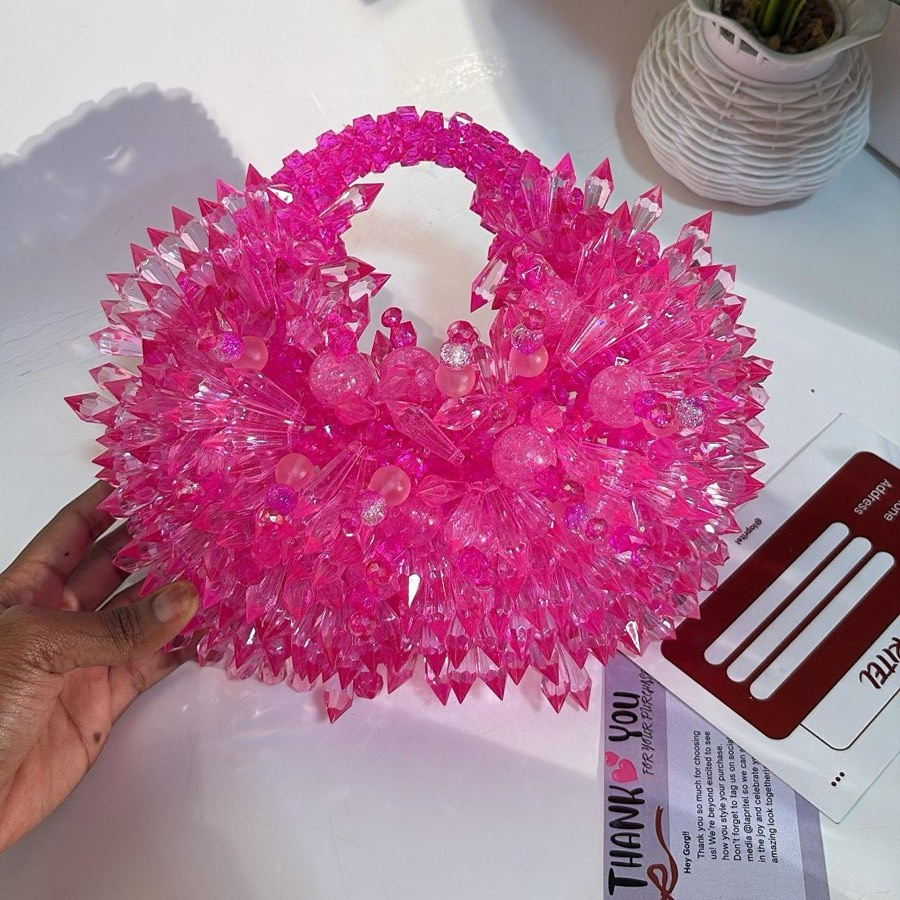
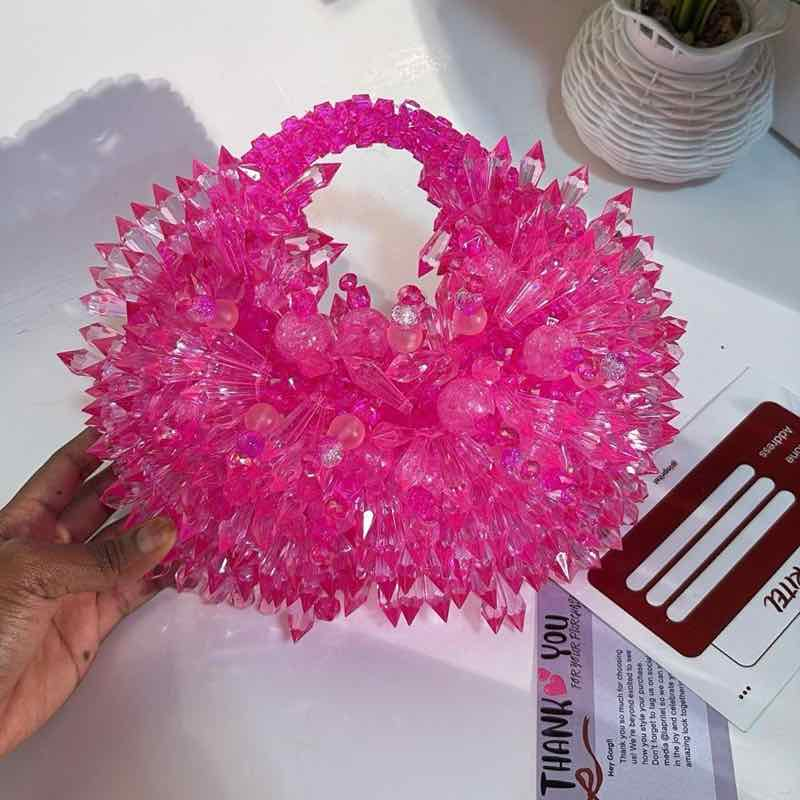
Optimize product photos — ~75% smaller, same visible quality
The full-size product photos (both the ones bundled into the client
and the copies uploaded to Supabase Storage for the live product API)
were never actually compressed for web -- 900x900 JPEGs saved near
losslessly, 185-255KB each. The Shop grid alone loads up to 10 of
these at once (~2MB), which is what was showing up as slow/laggy
image loading on the deployed site.

Resized to a esize to a max 800px edge and recompressed with sips
(-Z 800 -s formatOptions low) -- verified visually on the hardest
cases (white/clear beads on a dark background, solid black beads)
with no visible banding or blocking, just smaller files. Cuts every
photo from 185-255KB down to 45-58KB, about a 75% reduction.

Bundled copies are fixed by rebuilding (Vite re-processes the source
files). The Supabase-hosted copies needed a separate re-upload since
they're independent bytes in a storage bucket, not derived from the
repo at build time -- scripts/reuploadOptimizedImages.js does that,
overwriting the same filenames so existing image_url values in
product_variants keep working unchanged.

diff --git a/server/scripts/reuploadOptimizedImages.js b/server/scripts/reuploadOptimizedImages.js
@@ -1,0 +1,51 @@
+// Re-uploads the now-optimized local product photos to Supabase Storage
+// under their existing filenames (upsert), so image_url values already
+// stored in product_variants keep working unchanged -- this just replaces
+// the bytes behind them with the resized/recompressed versions.
+//
+// Usage: node scripts/reuploadOptimizedImages.js
+import 'dotenv/config'
+import { readFile } from 'fs/promises'
+import { fileURLToPath } from 'url'
+import path from 'path'
+import { supabase } from '../config/supabase.js'
+
+const __dirname = path.dirname(fileURLToPath(import.meta.url))
+const IMAGES_DIR = path.resolve(__dirname, '../../client/src/assets/images')
+const BUCKET = 'product-images'
+
+const files = [
+  { local: 'ivy_bag_black.jpg', storage: 'black.jpg' },
+  { local: 'ivy_bag_green.jpeg', storage: 'green.jpeg' },
+  { local: 'ivy_bag_hotpink.jpg', storage: 'hot-pink.jpg' },
+  { local: 'ivy_bag_lightpink.jpg', storage: 'light-pink.jpg' },
+  { local: 'ivy_bag_orange.jpg', storage: 'orange.jpg' },
+  { local: 'ivy_bag_purple.jpg', storage: 'purple.jpg' },
+  { local: 'ivy_bag_rainbow.jpg', storage: 'rainbow.jpg' },
+  { local: 'ivy_bag_red.jpg', storage: 'red.jpg' },
+  { local: 'ivy_bag_seablue.jpg', storage: 'sea-blue.jpg' },
+  { local: 'ivy_bag_white.jpeg', storage: 'white.jpeg' },
+]
+
+async function main() {
+  for (const file of files) {
+    const filePath = path.join(IMAGES_DIR, file.local)
+    const fileBuffer = await readFile(filePath)
+    const extension = path.extname(file.local).slice(1)
+    const contentType = extension === 'jpeg' || extension === 'jpg' ? 'image/jpeg' : `image/${extension}`
+
+    const { error } = await supabase.storage
+      .from(BUCKET)
+      .upload(file.storage, fileBuffer, { contentType, upsert: true })
+
+    if (error) {
+      console.error(`Failed to re-upload ${file.storage}:`, error.message)
+    } else {
+      console.log(`Re-uploaded: ${file.storage} (${Math.round(fileBuffer.length / 1024)}KB)`)
+    }
+  }
+
+  console.log('Done.')
+}
+
+main()
